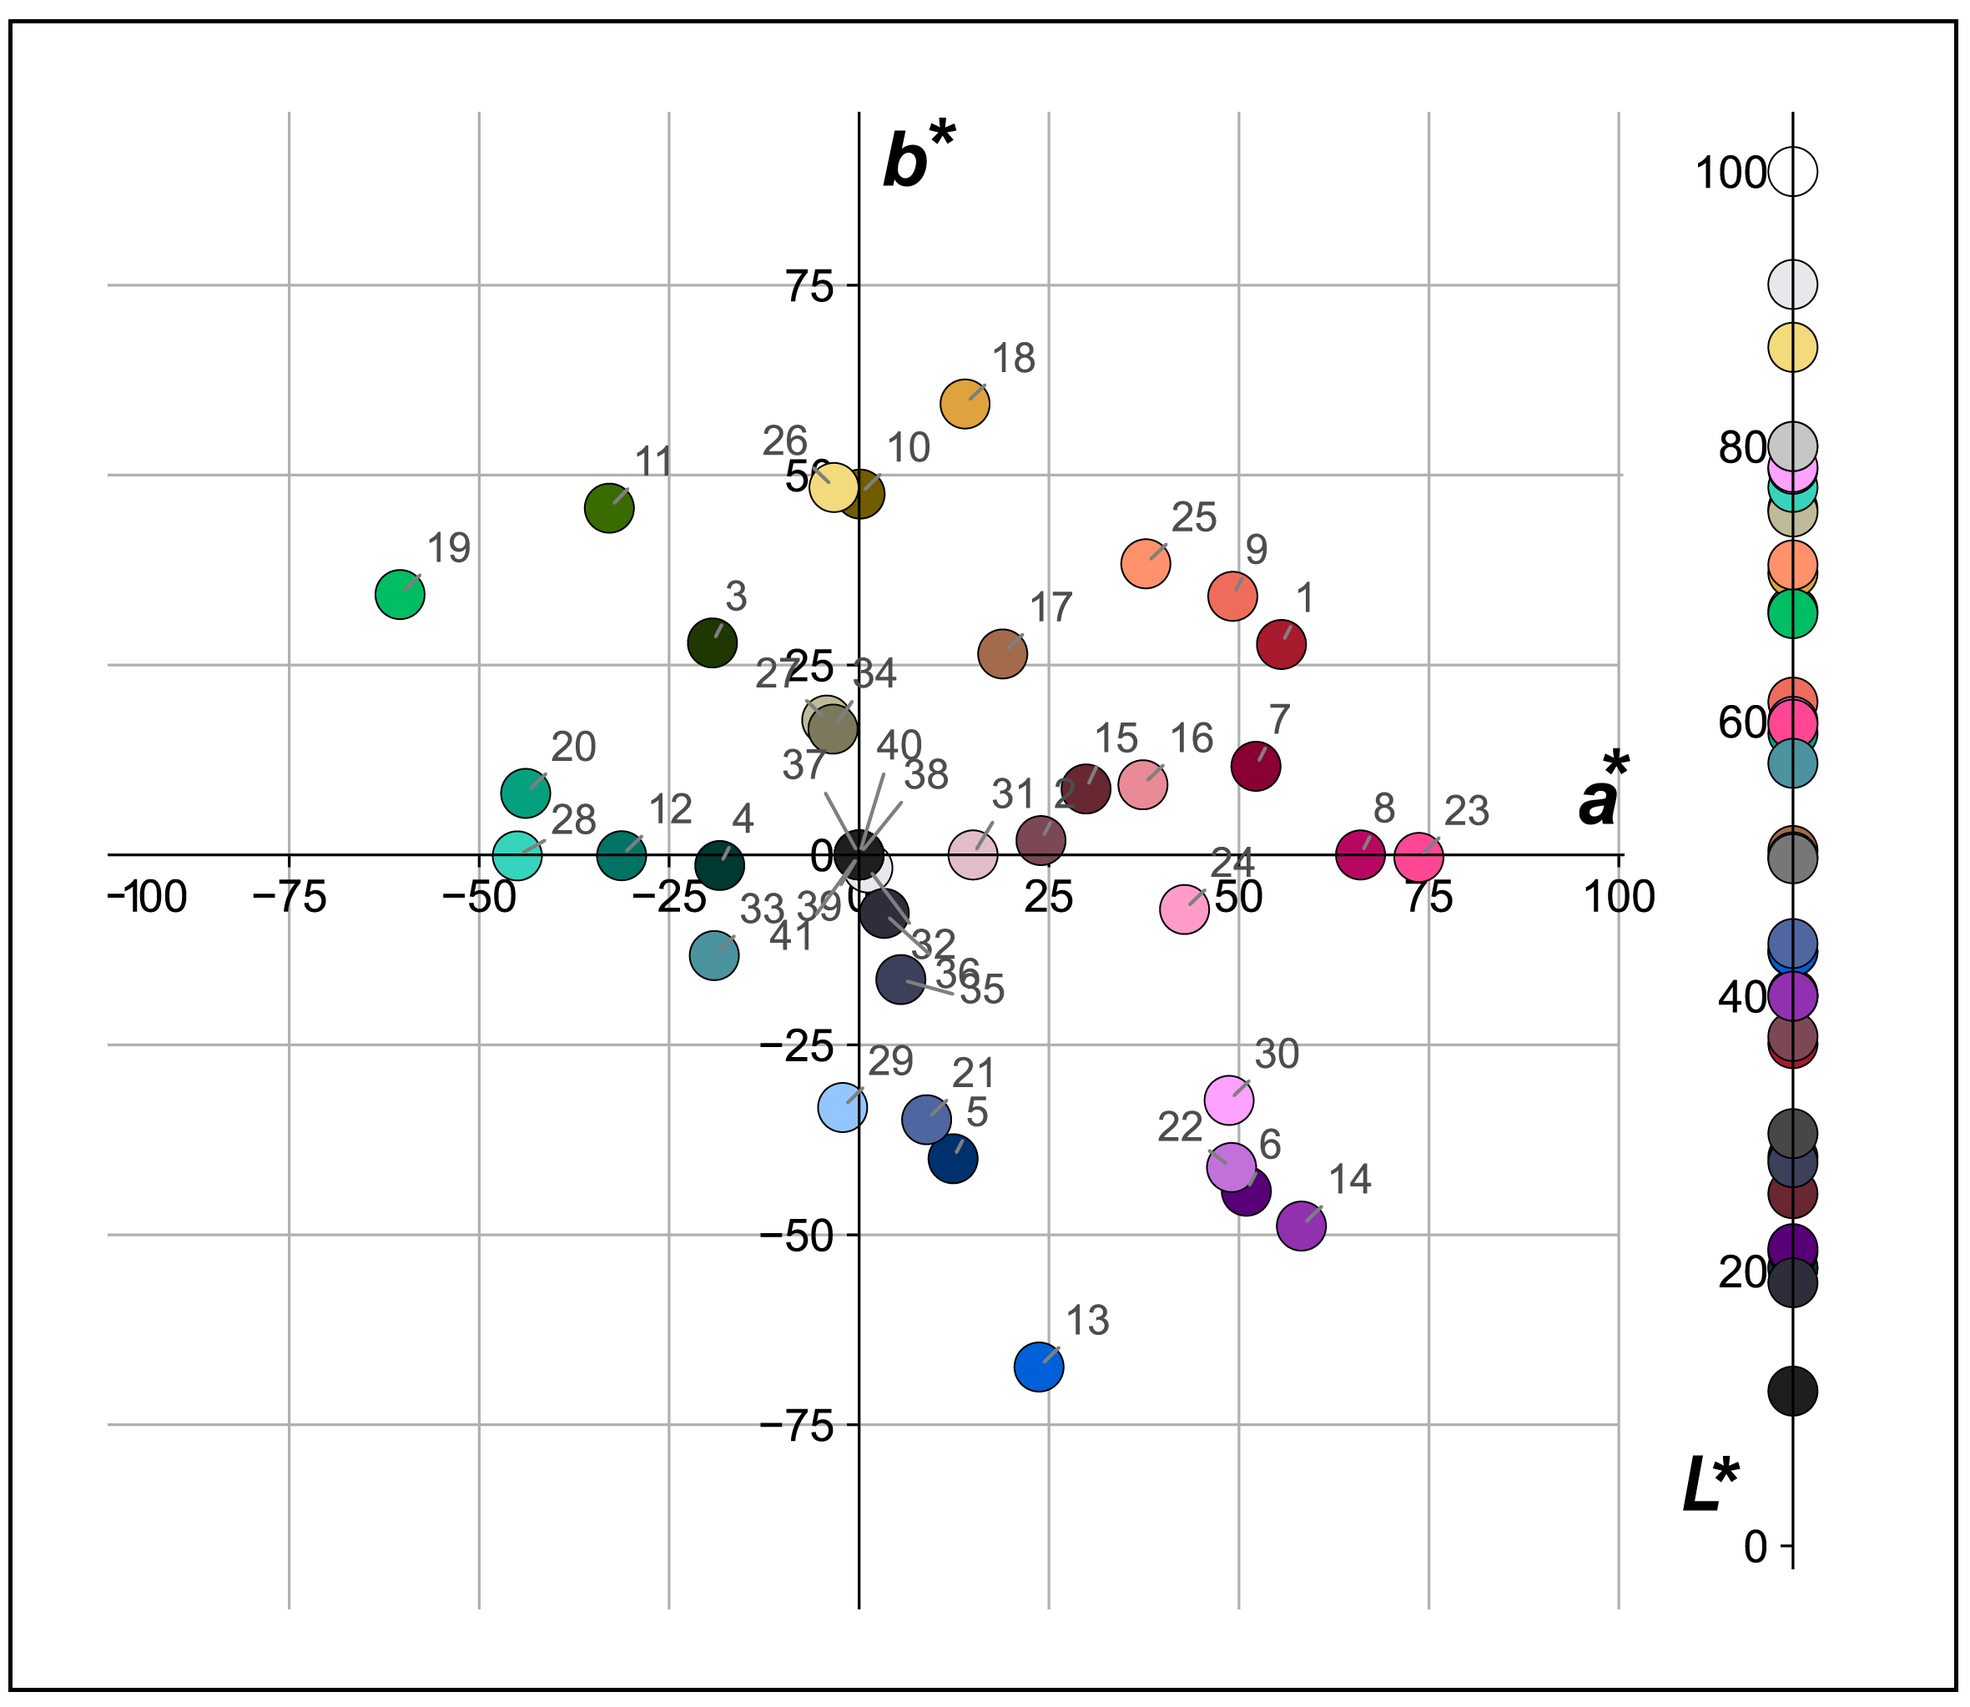
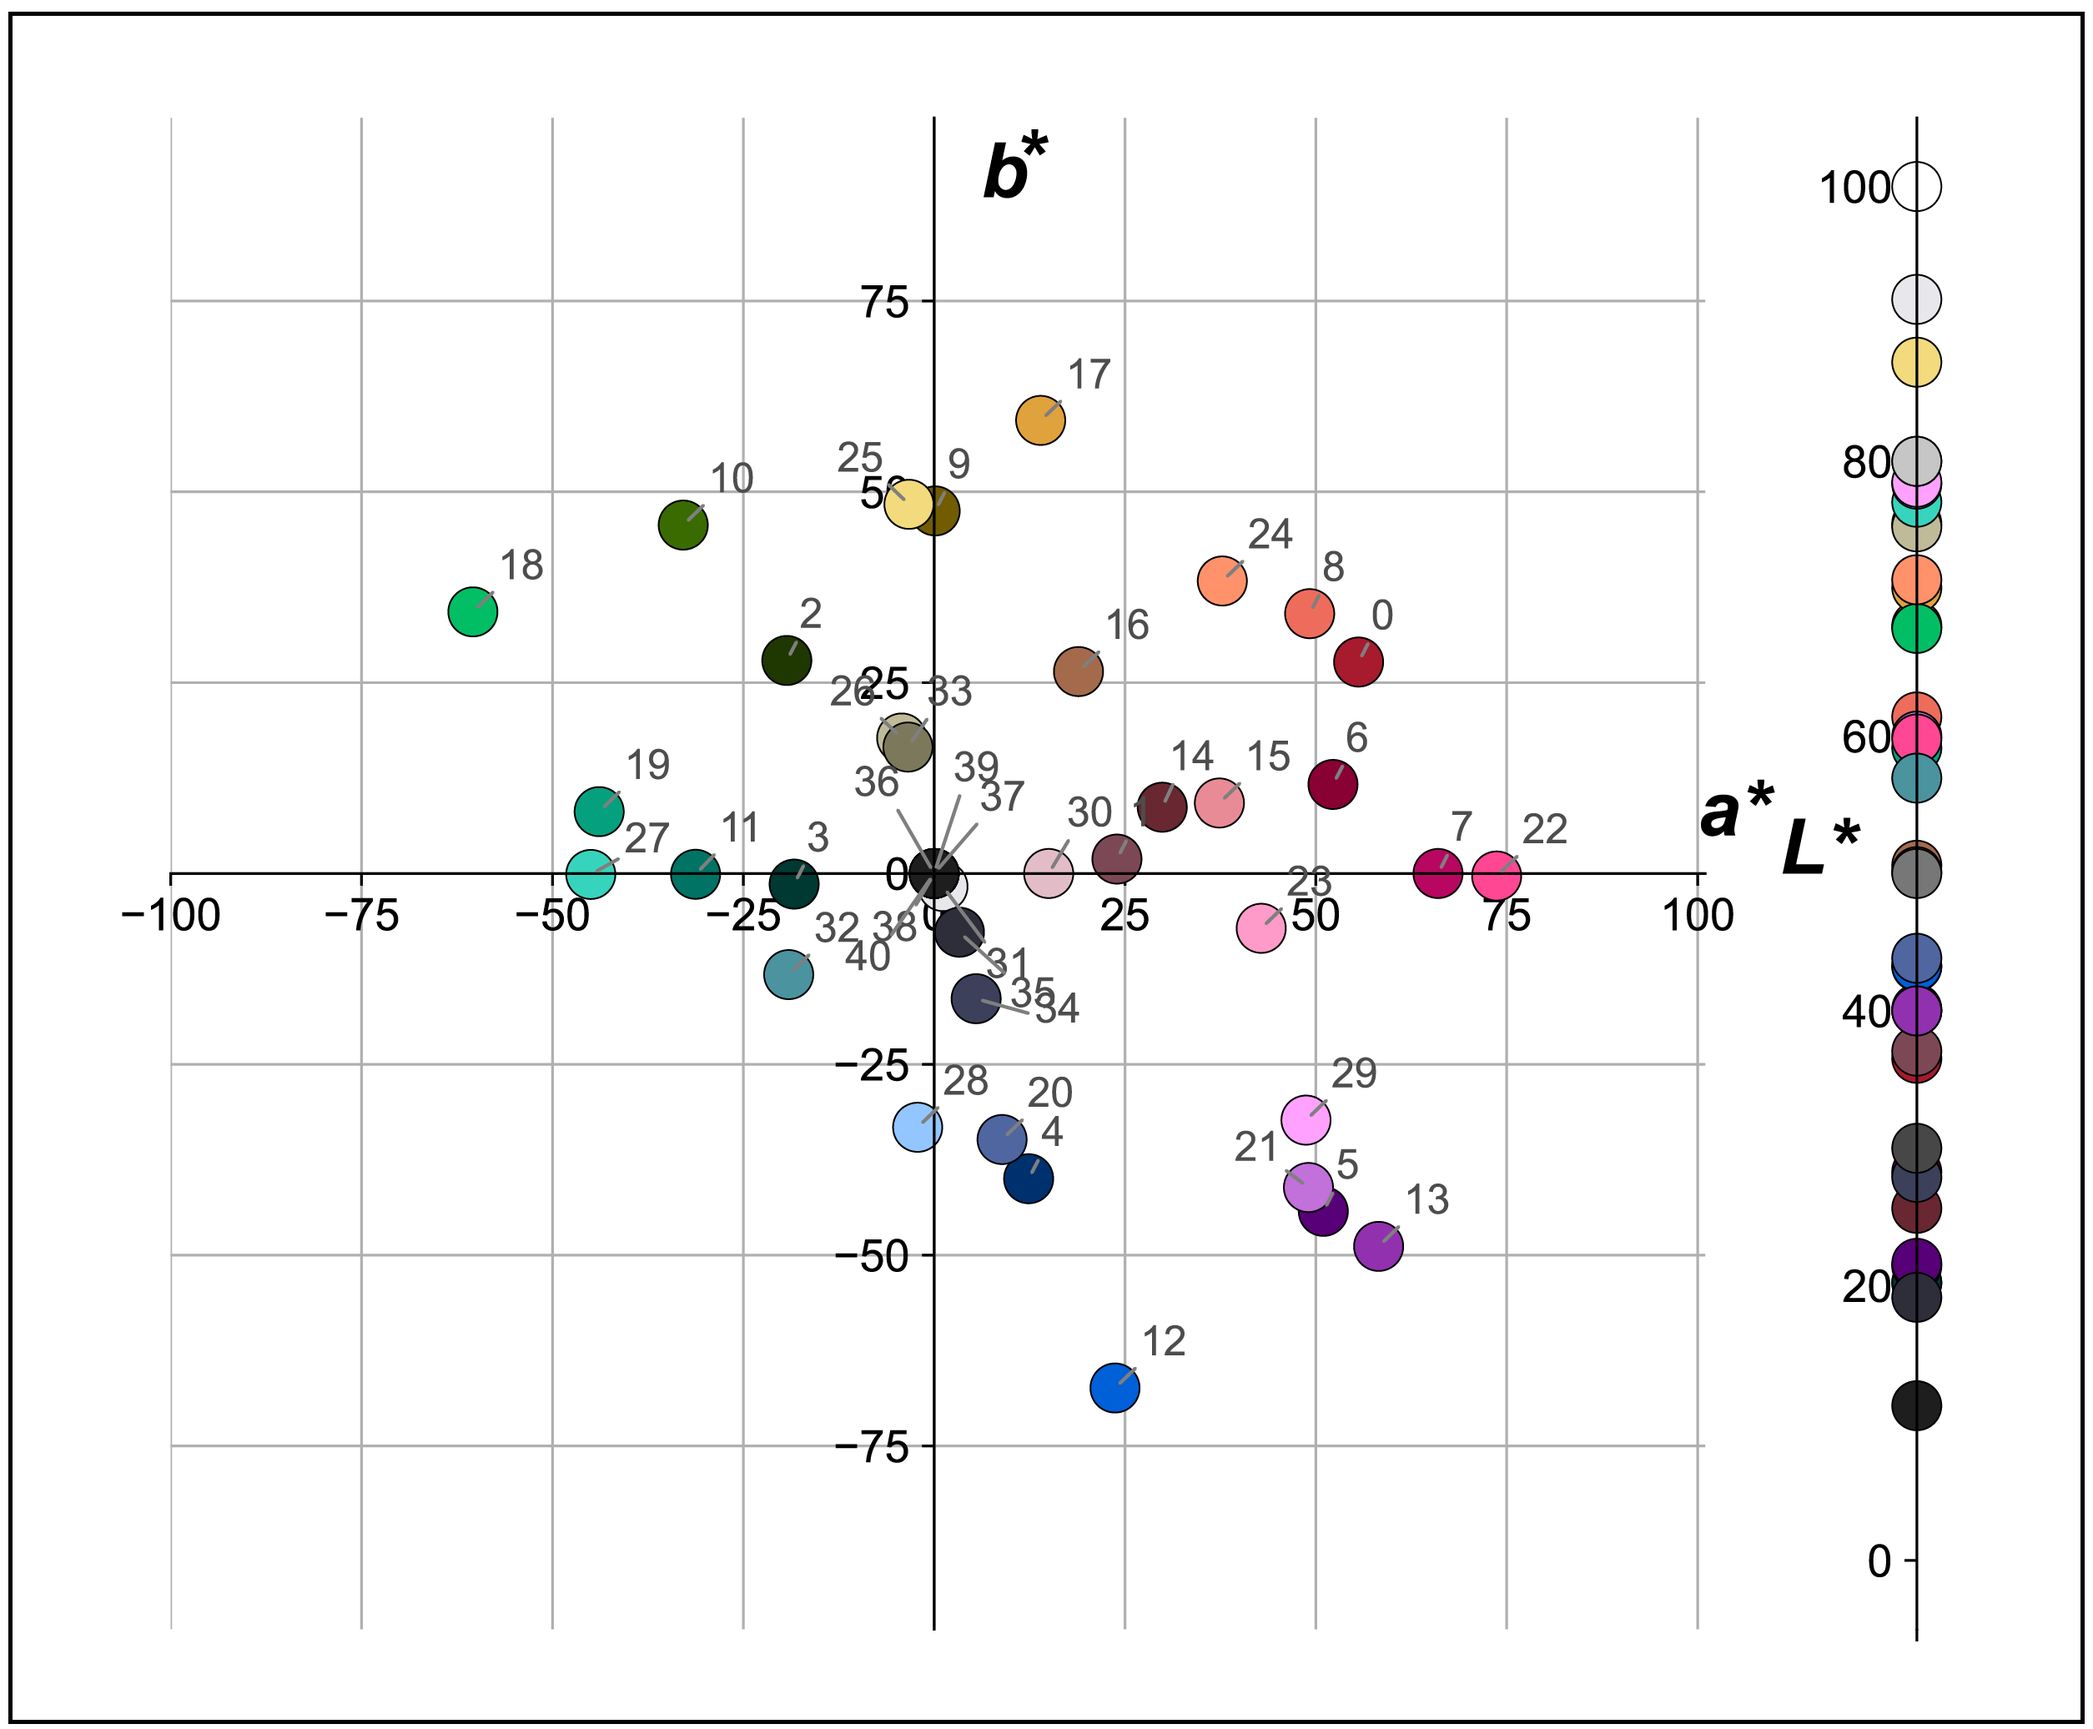
Add files via upload

diff --git a/Figure4_Color_Distrbution.py b/Figure4_Color_Distrbution.py
@@ -61,7 +61,7 @@ for i in range(len(centers_values_lab)):
     
         x = centers_values_lab[i,1]
         y = centers_values_lab[i,2]
-        text = str(i+1)
+        text = str(i)
         TEXTS.append(ax21.text(x, y, text, color=GREY30, fontsize=12, fontname="Arial"))
 
 
@@ -86,8 +86,8 @@ adjust_text(
 ax21 = plt.gca()
 # ax21.set_xlabel('a*')
 # ax21.set_ylabel('b*')
-ax21.set_xlim([-110, 110])
-ax21.set_ylim([-100, 99])
+ax21.set_xlim([-100, 101])
+ax21.set_ylim([-99, 99])
 font = {'family': 'Arial',
         'style': 'italic',
         'weight': 'bold',
